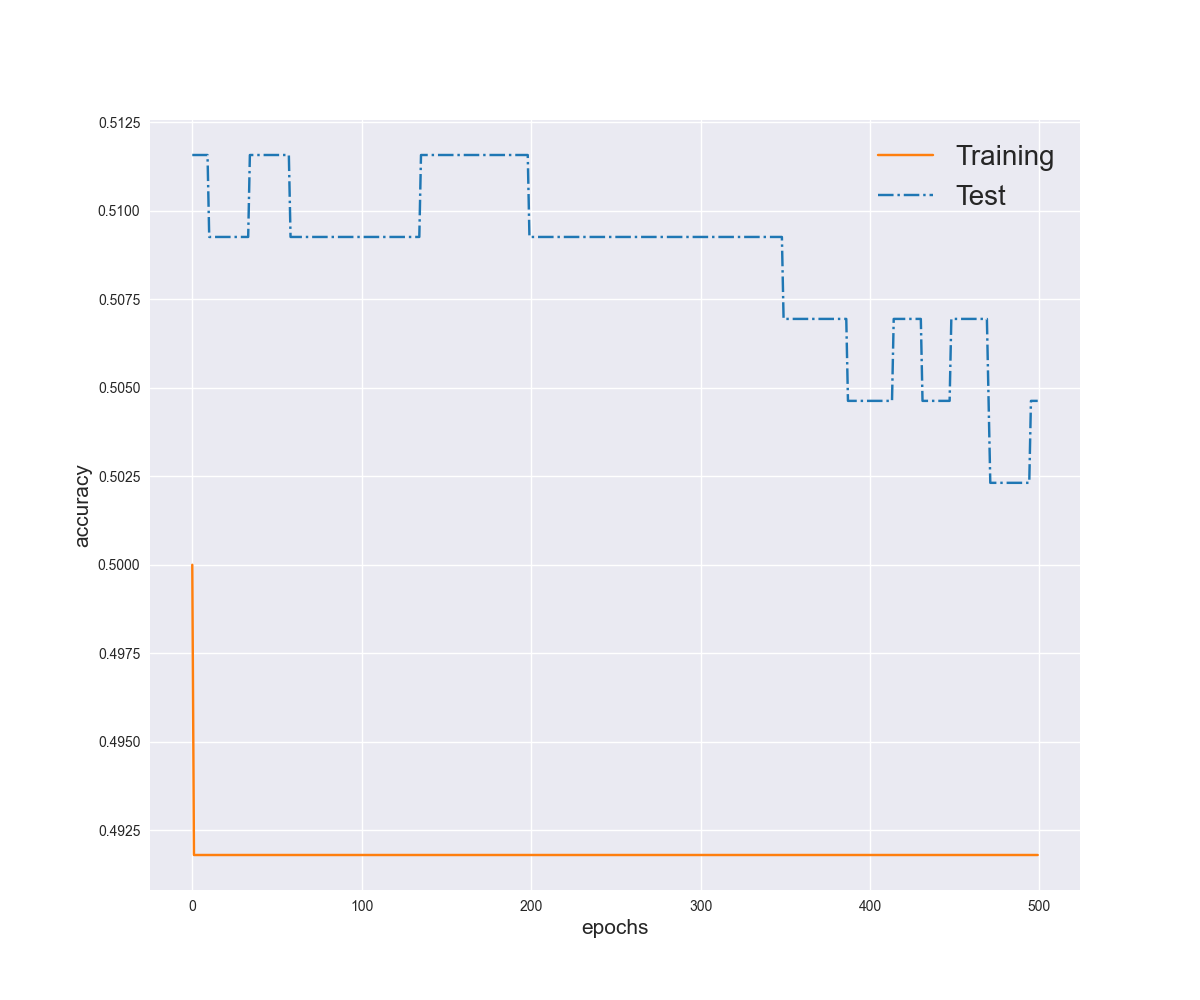
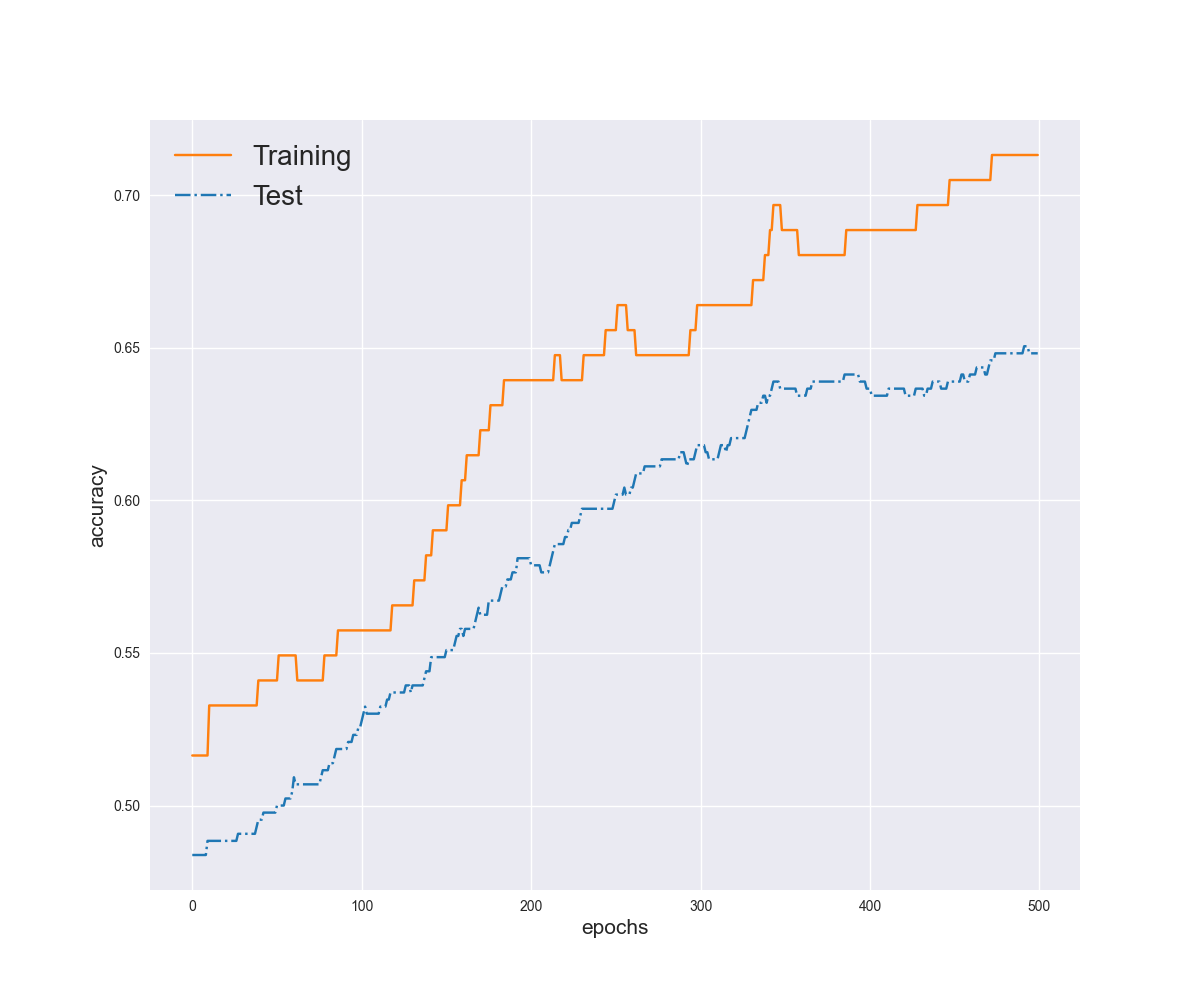
test tanh

diff --git a/test_monks.py b/test_monks.py
@@ -8,15 +8,15 @@ from kernel_initialization import *
 set_style_plot()
 
 DIR_DATA = "./data/"
-TR_FILE = 'monks-3.train'
-TS_FILE = 'monks-3.test'
+TR_FILE = 'monks-1.train'
+TS_FILE = 'monks-1.test'
 
 
 path_tr = DIR_DATA + TR_FILE
 path_ts = DIR_DATA + TS_FILE
-path_loss = 'out/err_monk3nr.png'
-path_acc = 'out/acc_monk3nr.png'
-path_result_model = 'out/results_nr.csv'
+path_loss = 'out/err_monk1nr.png'
+path_acc = 'out/acc_monk1nr.png'
+path_result_model = 'out/results_1_nr.csv'
 
 dim_in = 6
 one_hot = 17
@@ -36,8 +36,8 @@ dim_hid = 4
 
 model = NeuralNetwork('mse', 'accuracy')
 
-model.add_layer(dim_hid, input_dim=dim_in, activation='relu', kernel_initialization=RandomUniformInitialization(-0.5, 0.5))
-model.add_layer(dim_out, activation='sigmoid', kernel_initialization=RandomUniformInitialization(-0.5, 0.5))
+model.add_layer(dim_hid, input_dim=dim_in, activation='tanh', kernel_initialization=RandomUniformInitialization(-0.5, 0.5))
+model.add_layer(dim_out, activation='tanh', kernel_initialization=RandomUniformInitialization(-0.5, 0.5))
 
 model.compile()
 model.fit(
